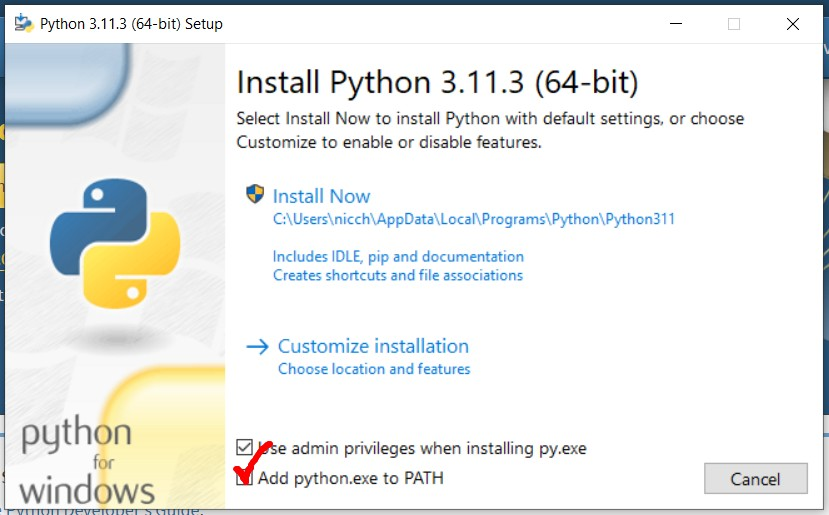
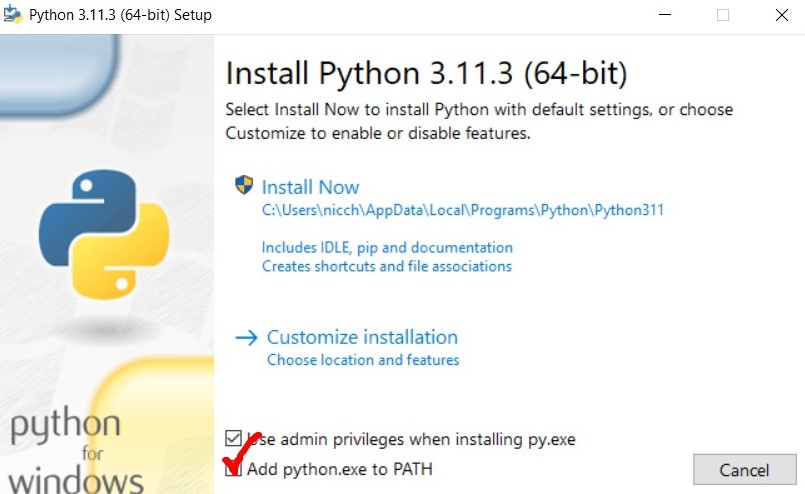
update readme

diff --git a/readme.md b/readme.md
@@ -1,6 +1,8 @@
 # Плавный вход в Python
 Здесь собраны основные quick start программы и крипты на python. В дополнении представлены полезные ссылки и гайды по установке и запуску среды программирования. 
 
+Презентацию введения с ссылками на источники можно взять по [ссылке](https://docs.google.com/presentation/d/1Y0ykNofupLzioS66xSxleAm_sMVdBT1Z/edit?usp=share_link&ouid=117033173110504155765&rtpof=true&sd=true)
+
 ## Оглавление
 
 1. [Установка Python :hatching_chick:](#установка-python)
@@ -15,7 +17,9 @@ ____
 ## Установка Python
 Python определенной версии можно скачать на официальном [сайте](https://www.python.org/downloads/).
 При открытии файла установки поставьте галочку как на картинке и запустите Install Now:
-![](/media/install-python-1.jpg=100x20)
+<p align="center">
+    <img src=./media/install-python-1.jpg width="450" height="300" />
+</p>
 
 Проверить успех установки можно так. Откройте командную строку (cmd, powershell) и выполните команду: 
 ```console
